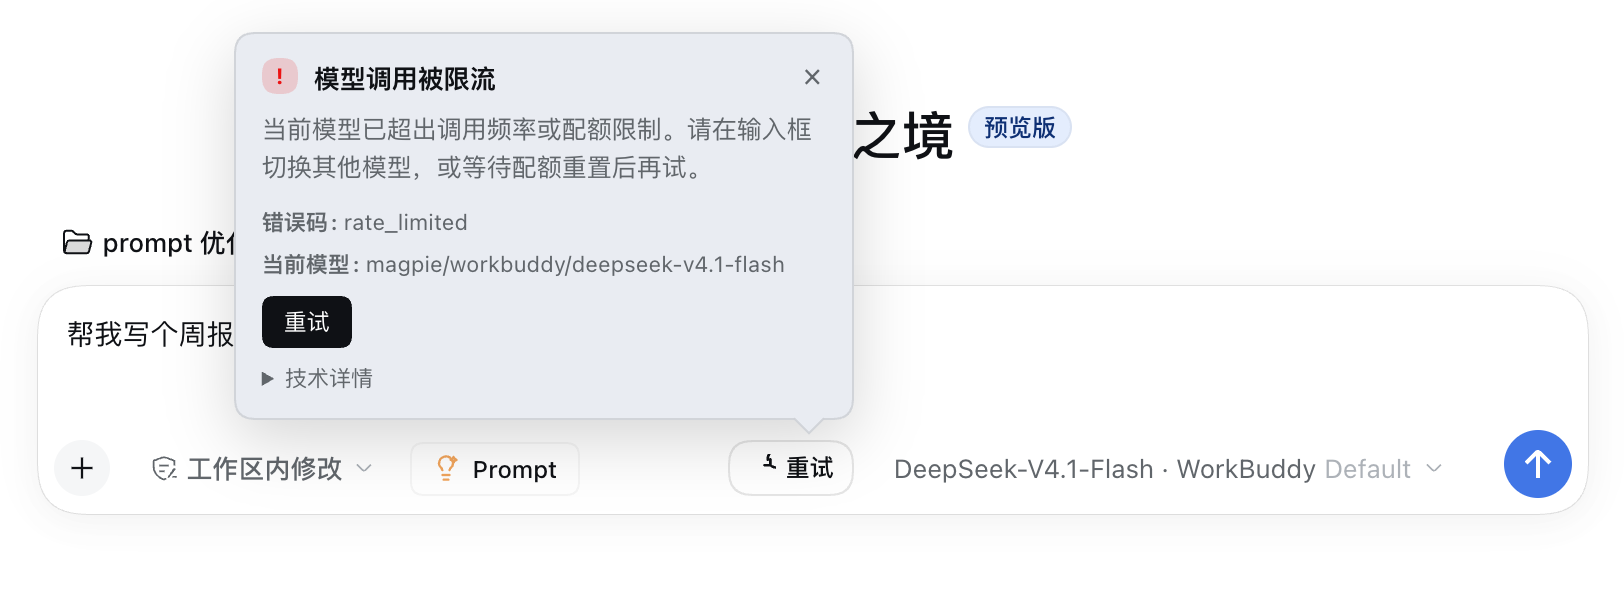
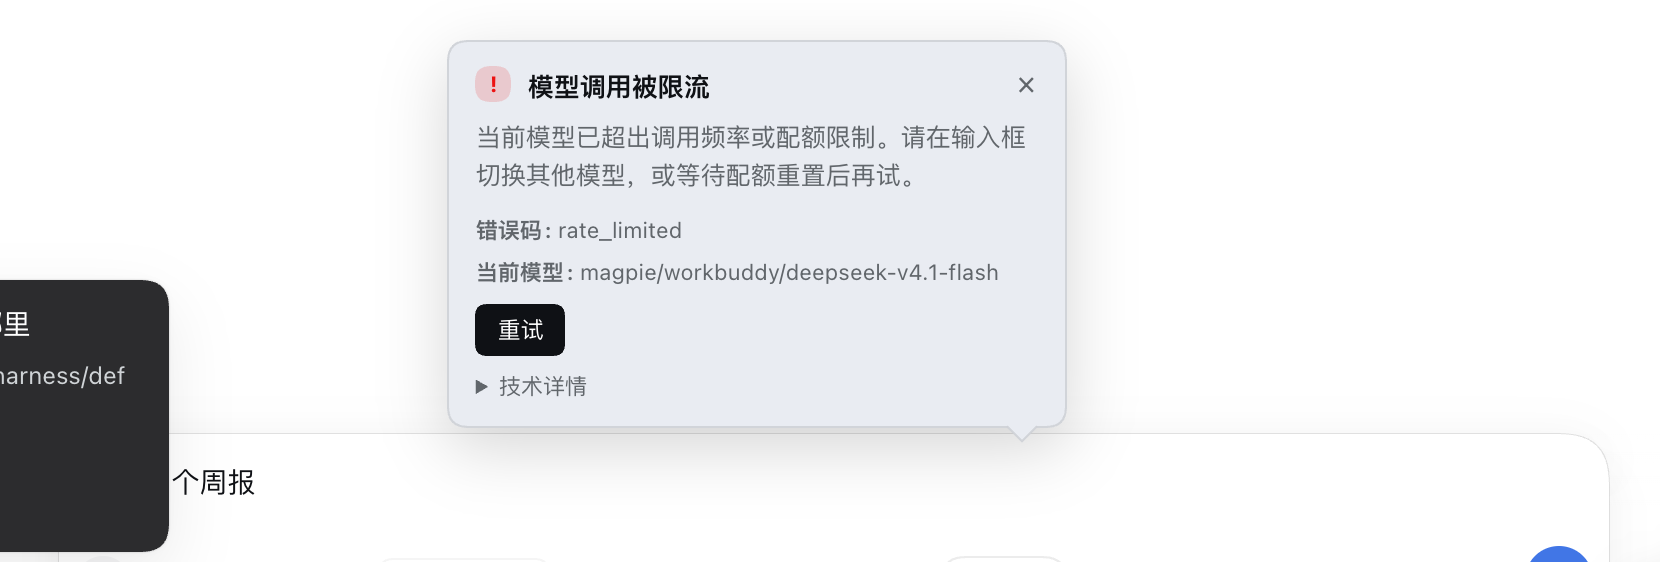
fix: use composer session model only, never a plugin model; v0.1.2

diff --git a/client.js b/client.js
@@ -132,7 +132,7 @@ window.__ModuleLoader__.load({
       '.po-spin{animation:po-spin 1s linear infinite;}',
       '@keyframes po-spin{to{transform:rotate(360deg);}}',
 
-      '.po-popover{position:absolute;right:0;bottom:calc(100% + 10px);z-index:40;width:310px;max-width:calc(100vw - 32px);box-sizing:border-box;padding:12px 13px;border:1px solid var(--dsw-alias-border-l2);border-radius:12px;background:var(--dsw-alias-bg-overlay);box-shadow:0 10px 32px rgba(0,0,0,.16);color:var(--dsw-alias-label-primary);font-family:inherit;font-size:12.5px;line-height:1.55;text-align:left;white-space:normal;}',
+      '.po-popover{position:absolute;right:0;bottom:calc(100% + 64px);z-index:40;width:310px;max-width:calc(100vw - 32px);box-sizing:border-box;padding:12px 13px;border:1px solid var(--dsw-alias-border-l2);border-radius:12px;background:var(--dsw-alias-bg-overlay);box-shadow:0 10px 32px rgba(0,0,0,.16);color:var(--dsw-alias-label-primary);font-family:inherit;font-size:12.5px;line-height:1.55;text-align:left;white-space:normal;}',
       '.po-popover:after{content:"";position:absolute;right:16px;bottom:-6px;width:10px;height:10px;transform:rotate(45deg);background:var(--dsw-alias-bg-overlay);border-right:1px solid var(--dsw-alias-border-l2);border-bottom:1px solid var(--dsw-alias-border-l2);}',
       '.po-pop-head{display:flex;align-items:flex-start;gap:8px;margin-bottom:6px;}',
       '.po-pop-badge{flex:0 0 auto;width:18px;height:18px;border-radius:50%;display:inline-flex;align-items:center;justify-content:center;background:color-mix(in oklab,var(--dsw-alias-state-error-primary) 16%,transparent);color:var(--dsw-alias-state-error-primary);font-size:11px;font-weight:700;line-height:1;}',
@@ -251,6 +251,30 @@ window.__ModuleLoader__.load({
     function ErrorPopover(props) {
       const failure = props.failure;
       const t = props.t;
+      const rootRef = React.useRef(null);
+      const closeRef = React.useRef(props.onClose);
+      closeRef.current = props.onClose;
+
+      // The popover floats over the draft text. Close it as soon as the user
+      // clicks anywhere else (e.g. back into the editor) or presses Escape, so
+      // an error can never trap the composer.
+      React.useEffect(() => {
+        const onPointerDown = (event) => {
+          const root = rootRef.current;
+          if (root && root.contains(event.target)) return;
+          closeRef.current();
+        };
+        const onKeyDown = (event) => {
+          if (event.key === 'Escape') closeRef.current();
+        };
+        document.addEventListener('mousedown', onPointerDown, true);
+        document.addEventListener('keydown', onKeyDown, true);
+        return () => {
+          document.removeEventListener('mousedown', onPointerDown, true);
+          document.removeEventListener('keydown', onKeyDown, true);
+        };
+      }, []);
+
       const model = failure.details.provider
         ? failure.details.provider + '/' + (failure.details.model || '?')
         : (failure.details.model || '');
@@ -261,7 +285,7 @@ window.__ModuleLoader__.load({
       if (failure.details.finishReason) {
         extra.push('finish: ' + failure.details.finishReason);
       }
-      return h('div', { className: 'po-popover', role: 'alert', 'aria-live': 'assertive' },
+      return h('div', { ref: rootRef, className: 'po-popover', role: 'alert', 'aria-live': 'assertive' },
         h('div', { className: 'po-pop-head' },
           h('span', { className: 'po-pop-badge' }, '!'),
           h('span', { className: 'po-pop-title' }, failure.title),
@@ -287,9 +311,22 @@ window.__ModuleLoader__.load({
     function PromptOptimizerButton(props) {
       const useInput = props.useInput;
       const inputActions = props.inputActions;
+      const useProjection = props.useProjection;
       const t = typeof props.t === 'function' ? props.t : fallbackT;
 
       const input = useInput((state) => state) || { draft: '', phase: 'plain', draftRev: -1 };
+      // The model selected for this composer session. Blank sessions without an
+      // explicit selection have no projection value; the Host then falls back
+      // to the Harness default model — which is the model the composer shows.
+      let projection;
+      try {
+        projection = typeof useProjection === 'function'
+          ? useProjection('modelSelection', (value) => value)
+          : undefined;
+      } catch {
+        projection = undefined;
+      }
+      const selected = projection && (projection.next || projection.lastUsed);
       const [state, setState] = React.useState({ status: 'idle' });
       const controllerRef = React.useRef(null);
       const inputRef = React.useRef(input);
@@ -348,13 +385,19 @@ window.__ModuleLoader__.load({
         }, 60_000);
 
         try {
-          // The Host resolves the current model itself via agentDefaultModel.
-          // Sending a stale projection-shaped model/effort here is what used to
-          // break optimization right after the user switched models.
+          // Send only the model the user selected in this composer session.
+          // reasoningEffort is intentionally omitted: a stale level from a
+          // previous model used to break optimization right after a switch.
+          // The plugin carries no API key; ctx.llm.stream() uses the Harness
+          // adapter/credential already bound to that provider.
           const response = await fetch('/prompt-optimizer/api/enhance', {
             method: 'POST',
             headers: { 'content-type': 'application/json' },
-            body: JSON.stringify({ text: draft }),
+            body: JSON.stringify({
+              text: draft,
+              ...(selected && selected.provider ? { provider: selected.provider } : {}),
+              ...(selected && selected.model ? { model: selected.model } : {}),
+            }),
             signal: controller.signal,
           });
           const data = await response.json().catch(() => null);

diff --git a/index.js b/index.js
@@ -92,14 +92,19 @@ export function normalizeConfig(config = {}) {
     temperature: numberInRange(config.temperature, 0.3, 0, 2),
     maxTokens: Math.round(numberInRange(config.maxTokens, 2048, 256, 8192)),
     timeoutMs: Math.round(numberInRange(config.timeoutMs, DEFAULT_TIMEOUT_MS, 1_000, 300_000)),
-    provider: optionalString(config.provider),
-    model: optionalString(config.model),
+    // No provider / model here on purpose: the plugin must never pick a model
+    // (and therefore a credential) of its own. The composer's session model is
+    // the only source of truth; config can only tune the rewrite request.
     reasoningEffort: optionalString(config.reasoningEffort),
     systemPrompt: optionalString(config.systemPrompt),
   }
 }
 
-/** Resolve the model route: request override > row config > Harness default. */
+/**
+ * Resolve the model route: the composer's session model (sent by the browser)
+ * wins; the Harness default is only a fallback for a session without a
+ * selection. Plugin config never overrides the user's model.
+ */
 export function resolveSelection(ctx, config, provider, model, reasoningEffort) {
   let fallback = {}
   try {
@@ -110,12 +115,10 @@ export function resolveSelection(ctx, config, provider, model, reasoningEffort) 
     /* A missing default is reported below. */
   }
   return {
-    provider: optionalString(provider) ?? config.provider ?? optionalString(fallback.provider),
-    model: optionalString(model) ?? config.model ?? optionalString(fallback.model),
+    provider: optionalString(provider) ?? optionalString(fallback.provider),
+    model: optionalString(model) ?? optionalString(fallback.model),
     reasoningEffort:
-      optionalString(reasoningEffort) ??
-      config.reasoningEffort ??
-      optionalString(fallback.reasoningEffort),
+      optionalString(reasoningEffort) ?? optionalString(fallback.reasoningEffort),
   }
 }
 
@@ -256,6 +259,12 @@ async function runStream(llm, config, selection, request, draft, maxTokens) {
 /**
  * Call the Harness LLM service once. The request contains only a system
  * message and the draft prompt; no tools, history, or session events.
+ *
+ * The plugin has no model and no credential of its own. The browser sends the
+ * provider/model selected in the composer's current session; the Host forwards
+ * exactly that to ctx.llm.stream(), whose adapter uses the credential the user
+ * already configured in Harness for that provider. Only a missing session
+ * selection falls back to the Harness default model.
  *
  * Reasoning effort is deliberately NOT forwarded from the request or the
  * Harness default selection: a rewrite task needs no high reasoning, and a

diff --git a/docs/DESIGN.md b/docs/DESIGN.md
@@ -136,10 +136,11 @@ idle --click--> loading --success--> done(before, after)
 - 路由前缀：`/prompt-optimizer/api`。
 - `GET /health`：返回插件版本、是否有 `llm`、当前解析到的模型。用于调试和安装后自检。
 - `POST /enhance`：
-  - 请求：`{ text }`（`provider` / `model` / `reasoningEffort` 仅为兼容保留，客户端不再发送）。
+  - 请求：`{ text, provider, model }`（`provider` / `model` 来自输入框当前会话的模型选择；`reasoningEffort` 仅为兼容保留，客户端永不发送）。
   - 响应成功：`{ ok:true, text, provider, model, elapsedMs }`
   - 响应失败：`{ ok:false, error:{ code, message, hint, details } }`
-- 模型解析优先级：请求指定的 provider/model → 插件 config → `ctx.agentDefaultModel.currentSelection()`。错误详情中会带上 Host **实际解析**到的模型，即使请求里没传。
+- 模型解析优先级：**输入框会话模型（请求）> `ctx.agentDefaultModel.currentSelection()` 兜底**。插件 config **不提供** `provider` / `model`，因此插件不可能指定自己的模型或凭据。错误详情中会带上 Host 实际使用的模型。
+- **凭据**：插件不持有任何 API Key，不读环境变量、不构造到模型服务的 HTTP 请求。它只调用 `ctx.llm.stream()`，由 Harness 已注册的 adapter 使用该 provider 对应的、用户自己配置的凭据。模型跟随输入框 ⇒ 凭据也跟随输入框。
 - 模型调用：`ctx.llm.stream({ provider, model, system, messages:[{role:'user',content:[{type:'text',text}]}], temperature, maxTokens, signal })`。
 - **推理等级**：默认完全不传。切换模型后残留的 `reasoningEffort`（如 `max`）会导致 `does not support reasoning effort`；只有插件 config 显式配置才传递，且模型拒绝时自动去掉后重试一次。
 - 不传 `tools`、不传历史、不传 session 日志；单轮补全。
@@ -168,11 +169,12 @@ idle --click--> loading --success--> done(before, after)
 | --- | --- | --- |
 | 替换方式 | 直接替换 + 回退快照 | 复刻 WorkBuddy 主交互，最少点击；原文始终可恢复 |
 | 触发 | 显式按钮 | 不在每次输入时调用，避免打扰与费用 |
-| 模型 | 当前会话模型，回退默认模型 | 与用户预期一致，避免另建模型配置 |
+| 模型 | 仅用输入框当前会话的模型；无选择时才回退 Harness 默认 | 模型与凭据都由用户在输入框决定；插件不自带模型与 API Key |
+| 推理等级 | 默认不传，只传 provider/model | 避免切换模型后残留等级导致不兼容 |
+| 凭据 | 插件零凭据，只调 `ctx.llm.stream()` | 由 Harness adapter 使用用户为该 provider 配置的凭据 |
 | 提示词 | 采用 `prompt-enhancer` 系统提示词 | 已针对「过度扩写」修补，且可移植 |
 | 文本范围 | 只替换文本 | 附件不动；引用 chip 可能展平（已在 README 说明） |
 | 错误 | 非阻塞 + 可重试 + 可读解释 | 绝不影响发送；失败保留原文；气泡说明原因、错误码、模型与处理建议 |
-| 模型选择 | Host 自己解析当前模型 | 避免客户端 projection 与 `agentDefaultModel` 不一致，也避免切换模型后带旧推理等级 |
 | 发布 | npm 包 + `dsh.bundle` + `dsh.client` | 与 DSH 插件市场安装方式一致 |
 
 ## 6. 失败与边界

diff --git a/docs/MARKETPLACE.md b/docs/MARKETPLACE.md
@@ -6,9 +6,9 @@
 
 | 项目 | 状态 | 地址 |
 | --- | --- | --- |
-| npm 包 `0.1.1` | 已发布，`latest` 指向 `0.1.1` | https://www.npmjs.com/package/dsh-composer-prompt-optimizer |
+| npm 包 `0.1.2` | 已发布，`latest` 指向 `0.1.2` | https://www.npmjs.com/package/dsh-composer-prompt-optimizer |
 | GitHub 仓库 | 公开，已加 `dsh-plugin` topic | https://github.com/keshaoqin/dsh-composer-prompt-optimizer |
-| GitHub Release / tarball | 已发布 `v0.1.1`（`v0.1.0` 为首发） | https://github.com/keshaoqin/dsh-composer-prompt-optimizer/releases/tag/v0.1.1 |
+| GitHub Release / tarball | 已发布 `v0.1.2`（`v0.1.0` 首发、`v0.1.1` 错误提示） | https://github.com/keshaoqin/dsh-composer-prompt-optimizer/releases/tag/v0.1.2 |
 | GitHub Actions CI | 已通过 | 语法检查 + 12 项测试 + `npm pack --dry-run` |
 | awesome-dsh-plugin 索引 | 待提交 PR | 见下方「社区索引」 |
 
@@ -18,7 +18,7 @@
 dsh plugin --profile desktop add dsh-composer-prompt-optimizer
 ```
 
-> 注：npm 上还有一个 `0.0.0-stage` 占位版本，是首次使用 stage-only token 时由 npm 自动生成的。它不影响 `latest`（`latest` = `0.1.1`），但 `npm unpublish` 需要账号的一次性密码（OTP）；带 Bypass 2FA 的 token 按 npm 安全策略不能执行 unpublish。可保留不动。`0.1.1` 修复了切换模型后的失败与错误提示问题，用户默认会安装到该版本。
+> 注：npm 上还有一个 `0.0.0-stage` 占位版本，是首次使用 stage-only token 时由 npm 自动生成的。它不影响 `latest`（`latest` = `0.1.2`），但 `npm unpublish` 需要账号的一次性密码（OTP）；带 Bypass 2FA 的 token 按 npm 安全策略不能执行 unpublish。可保留不动。`0.1.2` 起优化严格使用输入框当前会话模型，用户默认会安装到该版本。
 
 ## 1. npm 发布记录
 
@@ -46,11 +46,13 @@ npm pack --dry-run
 npm publish --access public
 ```
 
-`package.json` 已声明 `publishConfig.access = public`。账号开启 2FA 时，需使用带 **Bypass 2FA** 且权限为 **Read and write**（不是 stage only）的 Granular Access Token：
+`package.json` 已声明 `publishConfig.access = public`。账号开启 2FA 时，需使用带 **Bypass 2FA** 且权限为 **Read and write**（不是 stage only）的 Granular Access Token。下面只是命令模板，`<YOUR_TOKEN>` 是占位符；真实 token 只保存在本机 `~/.npm-publish-token`（权限 600），**绝不写进仓库或任何文档**：
 
 ```bash
-printf '%s' 'npm_...' > ~/.npm-publish-token
+printf '%s' '<YOUR_TOKEN>' > ~/.npm-publish-token
 chmod 600 ~/.npm-publish-token
+
+# 用临时 npm 配置发布，不修改 ~/.npmrc
 printf '//registry.npmjs.org/:_authToken=%s\n' "$(cat ~/.npm-publish-token)" > /tmp/npmrc
 chmod 600 /tmp/npmrc
 NPM_CONFIG_USERCONFIG=/tmp/npmrc npm publish --access public

diff --git a/README.md b/README.md
@@ -35,7 +35,7 @@ Or use the Plugin Manager's local-bundle install action. Restart Harness once af
 
 ```bash
 dsh plugin --profile desktop add dsh-composer-prompt-optimizer
-dsh plugin --profile desktop add dsh-composer-prompt-optimizer@0.1.1
+dsh plugin --profile desktop add dsh-composer-prompt-optimizer@0.1.2
 ```
 
 ## Use
@@ -74,12 +74,12 @@ Common codes: `rate_limited`, `unsupported_effort`, `unknown_model`, `unknown_pr
     temperature: 0.3      # 0–2, lower stays closer to the original intent
     maxTokens: 2048       # 256–8192; reasoning models need a larger budget
     timeoutMs: 60000      # 1s–300s
-    # provider: magpie
-    # model: xxx/yyy
     # reasoningEffort: high  # optional; omitted by default to stay compatible
 ```
 
-When `provider` / `model` are omitted, the Host reads the model you selected in the composer through `agentDefaultModel`. The plugin never forwards a stale `reasoningEffort` from a previous model selection — that was the cause of "model does not support reasoning effort" after switching models. Only an explicit config value is sent, and a model rejection is retried once without it.
+**The plugin has no `provider` / `model` setting and ships no API key.** It always uses the model selected for the composer's current session, and therefore the credential you already configured in Harness for that provider. It never reads environment variables or constructs a request to a model service. Only a session without a selection falls back to the Harness default model.
+
+The plugin never forwards a stale `reasoningEffort` from a previous model selection — that was the cause of "model does not support reasoning effort" after switching models. Only an explicit config value is sent, and a model rejection is retried once without it.
 
 ## Compatibility
 

diff --git a/README.zh.md b/README.zh.md
@@ -37,7 +37,7 @@ dsh plugin --profile desktop add /绝对路径/dsh-composer-prompt-optimizer
 ```bash
 dsh plugin --profile desktop add dsh-composer-prompt-optimizer
 # 指定版本
-dsh plugin --profile desktop add dsh-composer-prompt-optimizer@0.1.1
+dsh plugin --profile desktop add dsh-composer-prompt-optimizer@0.1.2
 ```
 
 ## 使用
@@ -92,12 +92,12 @@ dsh plugin --profile desktop add dsh-composer-prompt-optimizer@0.1.1
     temperature: 0.3      # 0–2，低温度更贴近原意
     maxTokens: 2048       # 256–8192，推理模型需要更多输出预算
     timeoutMs: 60000      # 1s–300s
-    # provider: magpie    # 可选：覆盖默认 provider
-    # model: xxx/yyy     # 可选：覆盖默认 model
     # reasoningEffort: high  # 可选；默认不传，避免与模型不兼容
 ```
 
-默认不写 `provider` / `model` 时，Host 通过 `agentDefaultModel` 读取你当前在输入框选择的模型。插件**不会**把旧的推理等级转发给模型：切换模型后残留的 `reasoningEffort` 曾导致「does not support reasoning effort」错误，现在只有显式配置该项时才会传递，且模型拒绝时会自动去掉后重试。
+**插件不提供也不允许配置 `provider` / `model`**：优化始终使用你在输入框当前会话选择的模型，因此也始终使用该模型对应的、你已在 Harness 里配置好的凭据。插件自身不持有任何 API Key，也不读取环境变量。仅当会话没有模型选择时，才回退到 Harness 的默认模型。
+
+推理等级默认完全不传：切换模型后残留的 `reasoningEffort` 曾导致「does not support reasoning effort」错误；现在只有显式配置该项时才会传递，且模型拒绝时会自动去掉后重试。
 
 ## 兼容性
 

diff --git a/CHANGELOG.md b/CHANGELOG.md
@@ -1,5 +1,24 @@
 # Changelog
 
+## 0.1.2 — 2026-11-11
+
+- Fixed: the optimizer now always uses the model selected in the composer's
+  current session (sent as `provider` + `model`), not the global
+  `agentDefaultModel`. The plugin's config no longer accepts `provider` /
+  `model`, so it can never pin its own model or a different credential.
+- Verified: the plugin ships no API key, reads no environment variables and
+  makes no direct request to a model service; it only calls `ctx.llm.stream()`,
+  whose adapter uses the credential already configured in Harness for the
+  provider the user selected in the composer.
+- Fixed: `cordis.patch.yml` still pinned `maxTokens: 1024`, overriding the
+  code default of 2048. It is now 2048, so reasoning models have enough output
+  budget.
+- `reasoningEffort` is still never sent by the browser, so switching models
+  cannot produce "does not support reasoning effort" anymore.
+- Publishing docs now use `<YOUR_TOKEN>` placeholders only; no local token path
+  is written into the shipped documentation.
+- Added tests asserting config cannot pin a model and the session model wins.
+
 ## 0.1.1 — 2026-11-11
 
 - Fixed: optimizing right after switching models could fail. The browser no

diff --git a/PUBLISHING.md b/PUBLISHING.md
@@ -34,8 +34,8 @@ npm view dsh-composer-prompt-optimizer
 
 ```bash
 npm pack --dry-run   # 只看清单
-npm pack             # 生成 dsh-composer-prompt-optimizer-0.1.1.tgz
-dsh plugin --profile desktop add /absolute/path/to/dsh-composer-prompt-optimizer-0.1.1.tgz
+npm pack             # 生成 dsh-composer-prompt-optimizer-0.1.2.tgz
+dsh plugin --profile desktop add /absolute/path/to/dsh-composer-prompt-optimizer-0.1.2.tgz
 ```
 
 ## 4. 发布到 npm
@@ -58,7 +58,7 @@ npm publish --access public
 1. 在 GitHub 建仓库，补 `repository`、`homepage`、`bugs` 字段。
 2. 准备：
    - 包名：`dsh-composer-prompt-optimizer`
-   - 版本：`0.1.1`
+   - 版本：`0.1.2`
    - 分类：`ui`（UI 增强）
    - 标题（中/英）和一句话描述
    - 真实运行截图（输入框按钮、优化前后、回退状态）
